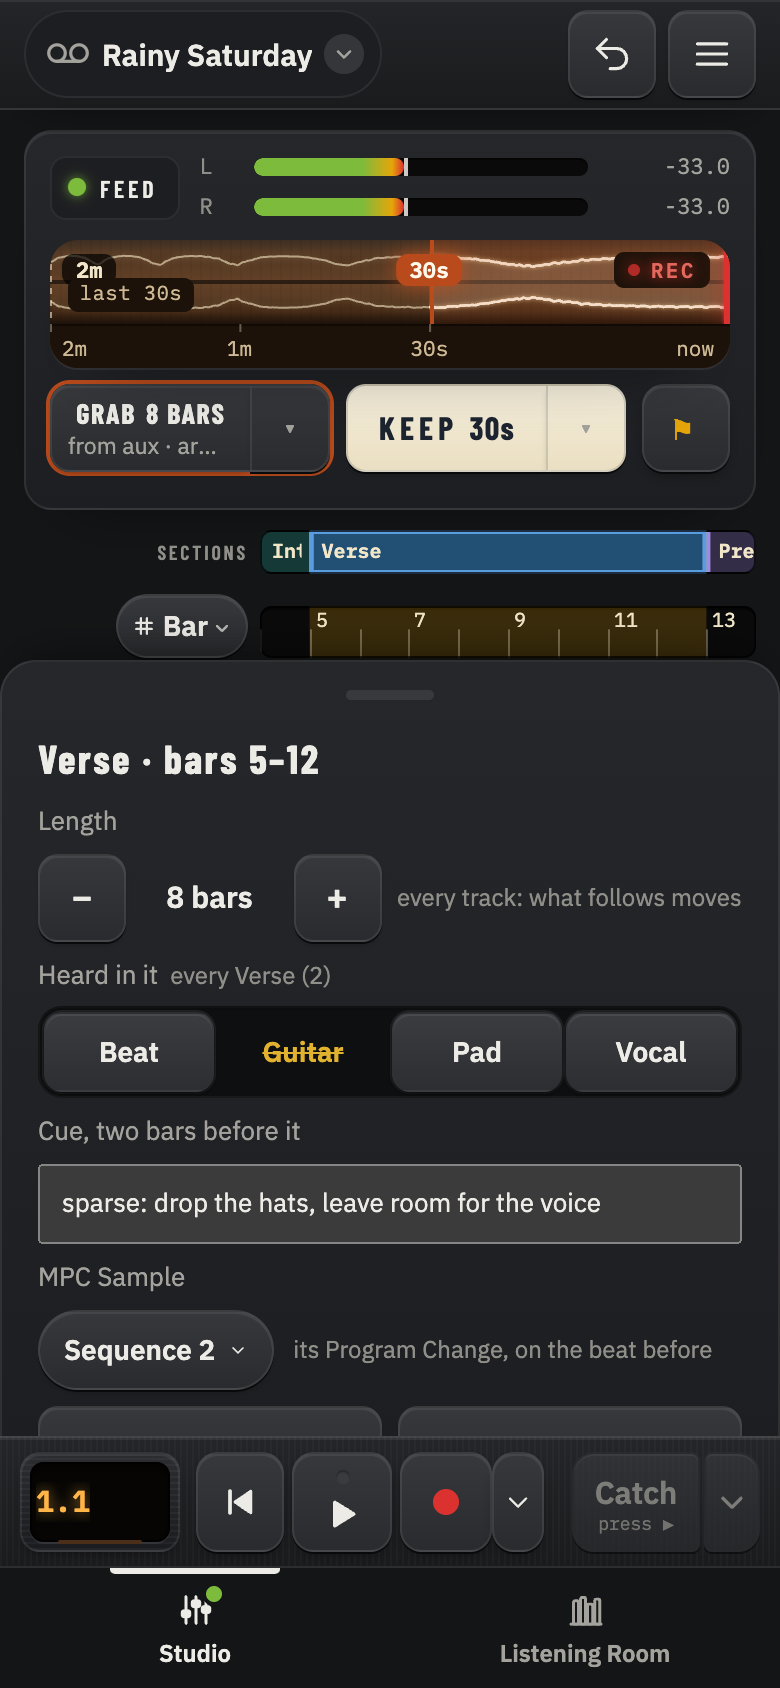
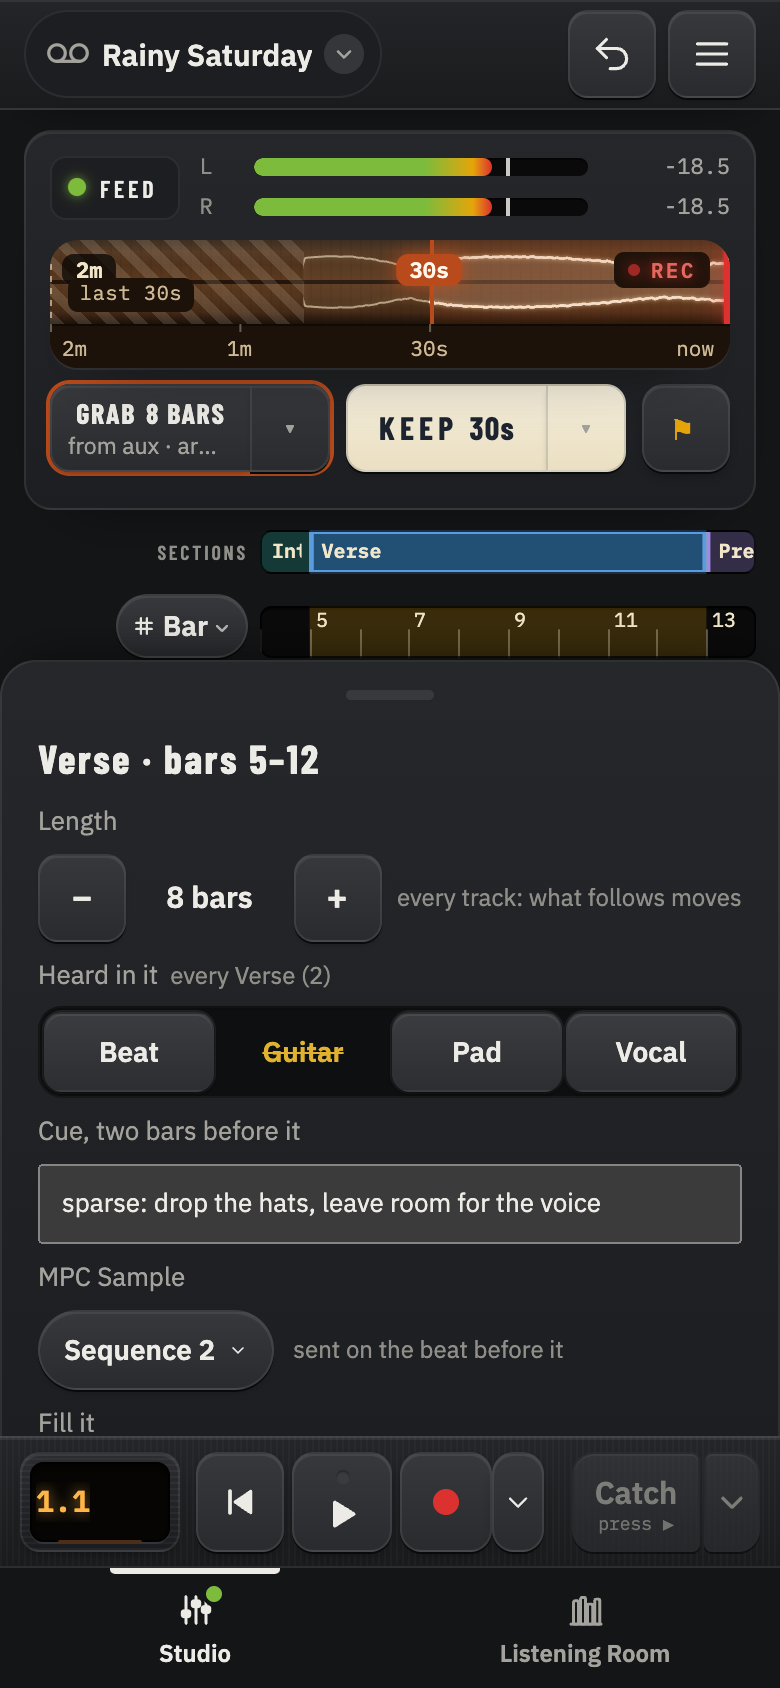
Docs only: song sections send the Program Change to one device by a new SendTo, and the picker is the Take component

diff --git a/docs/plan/song-sections.md b/docs/plan/song-sections.md
@@ -91,10 +91,14 @@ yet agreed, and is on the `claude/components-spec` branch.
   loop.
 - **Rig** says which device hears a Program Change.
 - **Tempo** sets the tempo a template needs.
-- **The picker is a component of its own**, mounted in the dock slot, or a
-  `createSheet` on the phone. It reads the `take` model (the peaks, the
-  notes) and the `tape` model (the sections). *Use for Verse* is the tape
-  model's `paste`: a take's span onto a track (`/api/tapes/drop`).
+- **The picker is the Take component** ("one take: hear it, select") in a
+  mode of its own: a selection a section long that steps by passes. It is
+  mounted in the dock slot, or a `createSheet` on the phone. It reads the
+  `take` model (the peaks, the notes) and the `tape` model (the sections).
+- ***Use for Verse* is the tape model's `paste`** (`/api/tapes/drop`), with
+  `at` the section's start. It doesn't use `send`, which places a take by
+  its own tempo and downbeat: the window is already on the take's bars, so
+  a span and a place are all it needs.
 - **The workspaces:**
   - **Build:** laying out a song, a section's settings, the picker;
   - **Jam:** *Play it*, and the cues.
@@ -157,16 +161,18 @@ yet agreed, and is on the `claude/components-spec` branch.
    - What follows moves either way.
    - **+** is refused when the push would run past the tape's end
      (`roomToPush`).
-   - A run of taps is one undo step: an edit of kind `section-bars`, which
-     the model's 2 s rule coalesces.
+   - A run of taps on one section is one undo step: an edit of kind
+     `section-bars:<id>`, which the model's 2 s rule coalesces. Taps on
+     two sections stay two steps.
 
    Dragging an edge stays what it is: a relabel that moves nothing.
 4. **Filling a section, by playing.** Use the moves that already exist: tap
    the section (the loop follows), arm a track, play over it, and Catch the
    best pass. The inspector's *Fill it* row has two keys:
    - **Play it** loops the section and plays it after a bar of count-in.
-   - **From a take…** opens the picker (decision 7) on this section, for
-     the take chosen from the shelf, newest first.
+   - **From a take…** opens a menu of the ten newest takes that have a
+     tempo (the `takes` model). The take chosen opens in the picker
+     (decision 7), on this section.
 5. **Per-section mutes on Hindsight's tracks.**
    - **Where they apply:** the renderer silences a section's `muted`
      tracks inside its span, with the 3 ms declick a cut's edge gets.
@@ -209,8 +215,15 @@ yet agreed, and is on the `claude/components-spec` branch.
    whatever MIDI can't do, and gear without MIDI. The separate-tracks
    method goes in the guide as a technique, with no code. A guide change
    releases, so it goes in with step 4's PR.
-   - **What is sent:** Program Change `program − 1`, through `midi.Out`,
-     which already schedules the clock.
+   - **What is sent:** Program Change `program − 1`.
+   - **How it is sent: a new interface.** `midi.Out.Send` writes to every
+     port it opened, and `ClockOut` (`clock.go`) has no send for one
+     device. So:
+     - `midi.Out` gains `SendTo(name, at, msg)`;
+     - its match list takes the device named for sequences, beside the
+       clock's followers;
+     - `ClockOut` gains an optional part for it, as `ClockFollower` is
+       one.
    - **Who hears it:** the one device the Rig names for sequences, never
      every follower of the clock (the Bento and the Sidekick don't want it).
      Until the rig roles exist, that is a setting, `TAPE_PROGRAM_OUT`: a
@@ -395,8 +408,11 @@ Two things come first:
    - Flow J1.19, *mute a track in the verses*.
 5. **Cues.** `Section.Cue`; the flag over the strip two bars ahead while
    the tape plays. Later, the SMK-37's screen.
-6. **Program Change.** `Section.Program` and the send in `clock.go`,
-   including after a jump. Go tests with the clock's fake out.
+6. **Program Change.** `Section.Program`; `midi.Out.SendTo` and
+   `ClockOut`'s part for it; the send in `clock.go`, after a locate and at
+   the wrap; `TAPE_PROGRAM_OUT` and `TAPE_PROGRAM_CHANNEL`. Go tests with
+   the clock's fake out: only the named device hears it, on its channel,
+   on the beat before.
 7. **A jam into a song.** *Make it a song…*, *From a take…* and the
    picker. Flow J2.12, *make last night's jam a song*.
 
